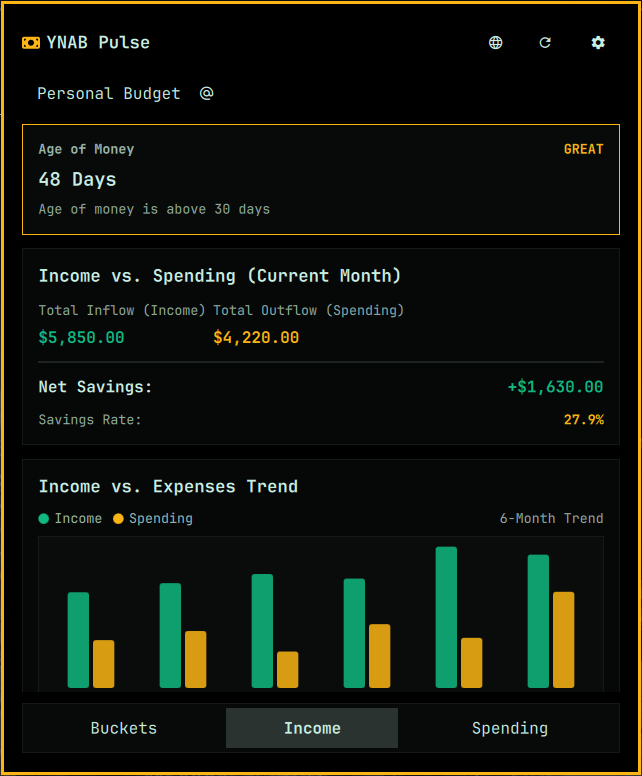
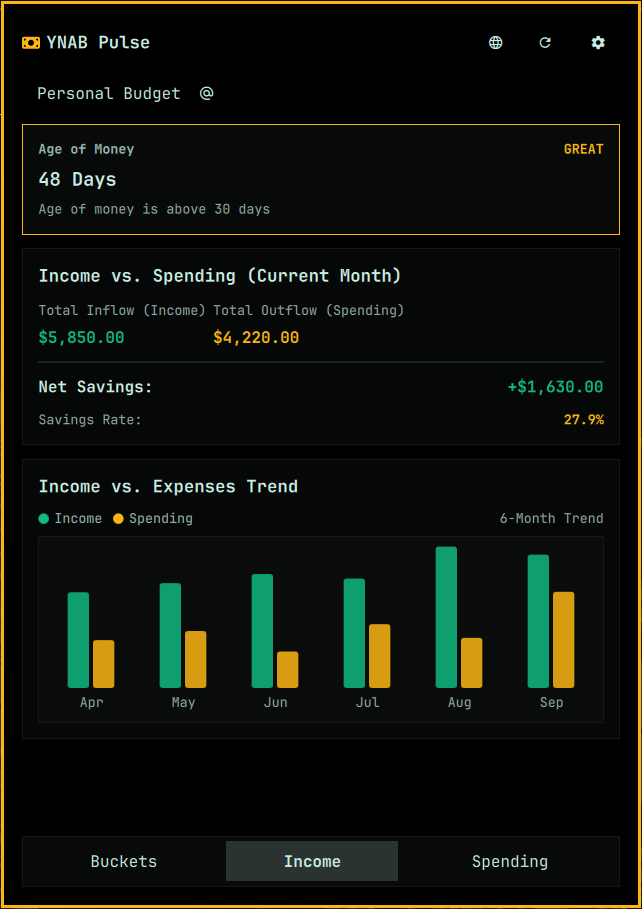
fix(panel): lengthen the card so the income trend months stay on screen
The budget switcher now has its own row, so the original 580px height
clips the 6-month labels behind the tab bar. Raise the desired height
to 680 (still clamped to availableCardHeight).

diff --git a/tests/panel-layout.test.js b/tests/panel-layout.test.js
@@ -20,8 +20,8 @@ check("card width uses KeyboardPanel.fittedContentWidth",
   /contentWidth:\s*keyboardPanel\.fittedContentWidth\(Style\.space\(480\)\)/.test(panel),
   "expected contentWidth: keyboardPanel.fittedContentWidth(Style.space(480))")
 check("card height uses KeyboardPanel.cappedContentHeight",
-  /contentHeight:\s*keyboardPanel\.cappedContentHeight\(Style\.space\(580\)\)/.test(panel),
-  "expected contentHeight: keyboardPanel.cappedContentHeight(Style.space(580))")
+  /contentHeight:\s*keyboardPanel\.cappedContentHeight\(Style\.space\(680\)\)/.test(panel),
+  "expected contentHeight: keyboardPanel.cappedContentHeight(Style.space(680))")
 check("panel does not reimplement availableCard* clamping",
   !/availableCardWidth/.test(panel) && !/availableCardHeight/.test(panel),
   "hand-rolled availableCard* clamp is still in Panel.qml")

diff --git a/Panel.qml b/Panel.qml
@@ -174,7 +174,7 @@ Panel {
     owner: root.barIdentity
     open: root.opened
     contentWidth: keyboardPanel.fittedContentWidth(Style.space(480))
-    contentHeight: keyboardPanel.cappedContentHeight(Style.space(580))
+    contentHeight: keyboardPanel.cappedContentHeight(Style.space(680))
     focusTarget: keyCatcher
 
     PanelKeyCatcher {
